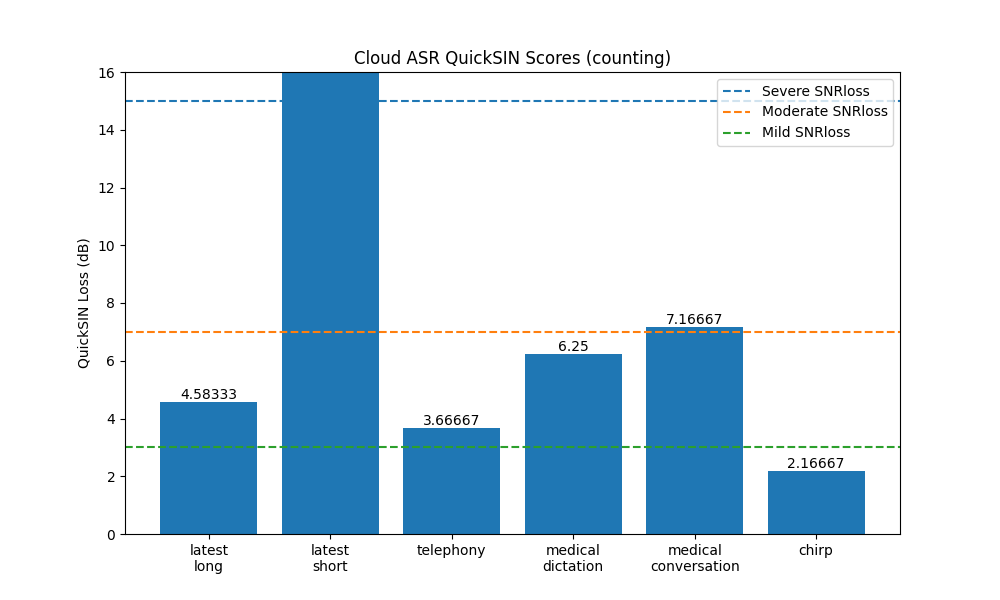
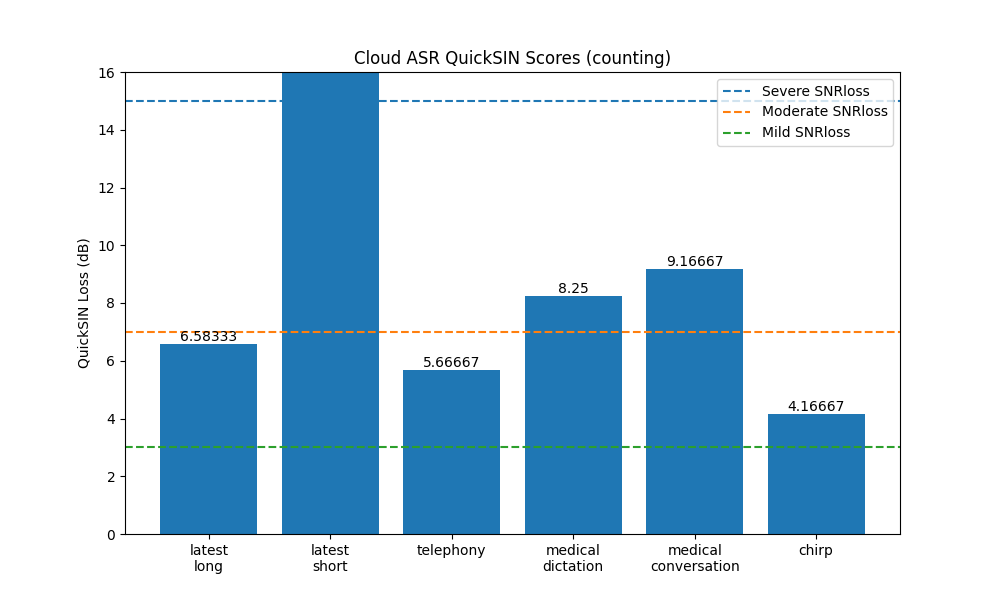
Fixed SNR-50 calculation via counting

diff --git a/google_asr_sin.py b/google_asr_sin.py
@@ -1038,8 +1038,10 @@ def main(_):
     # if m == 'latest_short': continue
     # Translate fraction correct into the average number of correct
     # words per SNR across all lists.
-    quicksin_counting_scores[m] = (25.5 - 5 * np.sum(model_frac_scores[m]) -
-                                   FLAGS.human_level)
+    scores = model_frac_scores[m]
+    assert len(scores) == 6, f'Not enough scores {scores} for model {m}'
+    snr50 = 27.5 - 5 * np.sum(model_frac_scores[m])
+    quicksin_counting_scores[m] = snr50 - FLAGS.human_level
 
   if FLAGS.spin_counting_graph:
     fig = plt.figure(figsize=(10, 6))

diff --git a/README.md b/README.md
@@ -1,3 +1,23 @@
+# Modern speech recognizer performance on human speech-in-noise test
+Malcolm Slaney and Matt Fitzgerald,
+Stanford University
+
+---
+
+## Abstract
+We propose a standardized test 
+to evaluate modern DNN-based speech recognition system. 
+The QuickSIN test measures human speech in noise abilities, which are impacted by
+a number of factors including peripheral sensitivities, neural issues such 
+as synaptopathy, and any number of cognitive issues. The QuickSIN test scores
+human subjects from normal, to mildly , moderately, 
+and then severly impaired based upon 
+the signal-to-noise ratio (SNR) where the subject correctly recognizes 50% 
+of the keywords.
+We demonstrate that a modern recognizer, built using millions of hours of 
+unsupervised training data, achieves near-normal recognition in noise when
+with this human test.
+
 ## Introduction
 
 This code implements the QuickSIN test, and uses it to test a modern
@@ -8,7 +28,8 @@ or your favorite audiologist, as well as a Google Cloud project id you can
 charge the 
 [API calls](https://cloud.google.com/speech-to-text/v2/docs/sync-recognize)
 against. This code runs on your local machines, reads the QuickSIN
-audio files, and sends them to the cloud for recognition.
+audio files, sends the audio to the cloud for recognition, and then scores
+the results.
 
 For many years, speech recognizers have performed better than human in 
 *clean* speech 
@@ -69,6 +90,31 @@ homonyms, and within a small window (2s).  The ground truth looks like this
 
 ```
 L 3 S 4  stems Tall Glasses cracked broke
+```
+
+The recognizer returns a number of recognized words and their start and end
+times. We normalize the results, largely changing homonyms into the spelling
+that is expected on the QuickSIN test.  The test specifies 5 keywords for
+each sentence, and their correct recognition is used to score each sentence.
+We use a strict scoring standard, where each phoneme must be correctly 
+recogmized.  Thus "4" and "four" are the same word, and "Tara" is taken to be
+equal to "Tear a", 
+while "sheet" and "sheep" or "chart" and "charts" are scored as a miss.
+
+This score (the number of correctly identified words over all 6 sentences)
+is converted into an SNR-50 (the SNR which gives 50% accuracy) and then
+SNR-Loss.
+```
+The QuickSIN has five words per step and 5 dB per step. Our highest SNR is
+25 dB so we take 25 + 2.5 = 27.5 minus the total number of words repeated 
+correctly. This gives what we call SNR-50, the signal-to-noise ratio required
+for the patient to repeat 50% of the words correctly.
+```
+Furthermore
+```
+Since SNR-50 for normal-hearing persons is 2 dB, we subtract 2 dB to 
+derive the formula for a patient's SNR LOSS: 25.5 – (Total words correct 
+in 6 sentences)
 ```
 
 ## Results
